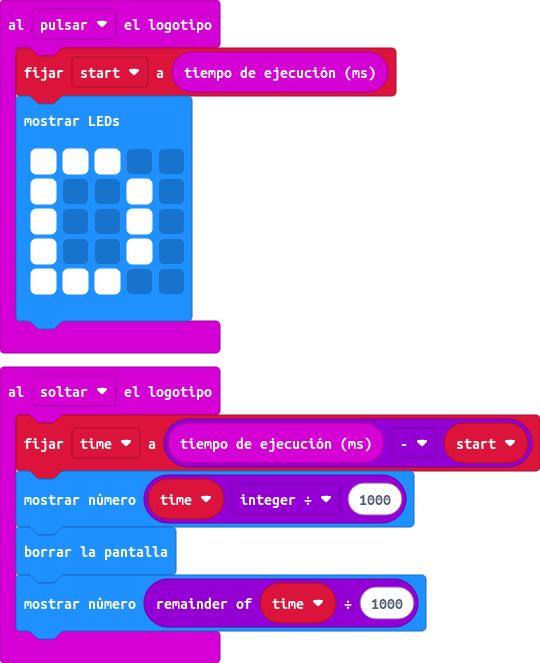
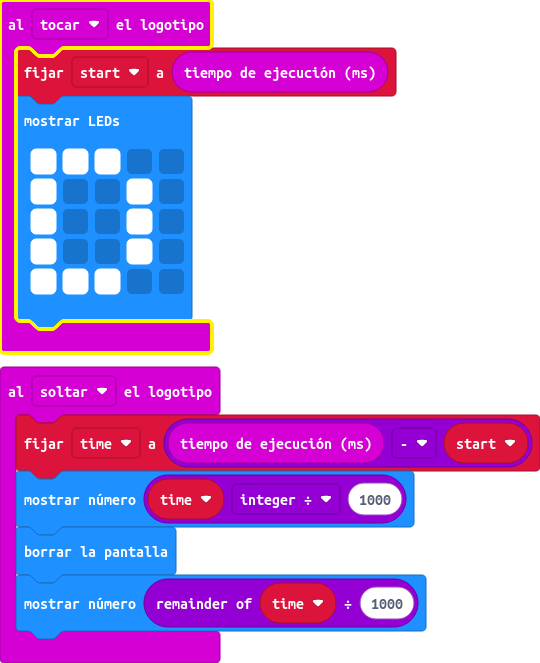
Actualizar main.blocks, main.ts

Changed region(s): [[0.0, 0.0, 0.4148, 0.543]]

diff --git a/main.ts b/main.ts
@@ -6,7 +6,7 @@ input.onLogoEvent(TouchButtonEvent.Released, function () {
     basic.clearScreen()
     basic.showNumber(time % 1000)
 })
-input.onLogoEvent(TouchButtonEvent.Pressed, function () {
+input.onLogoEvent(TouchButtonEvent.Touched, function () {
     start = input.runningTime()
     basic.showLeds(`
         # # # . .
